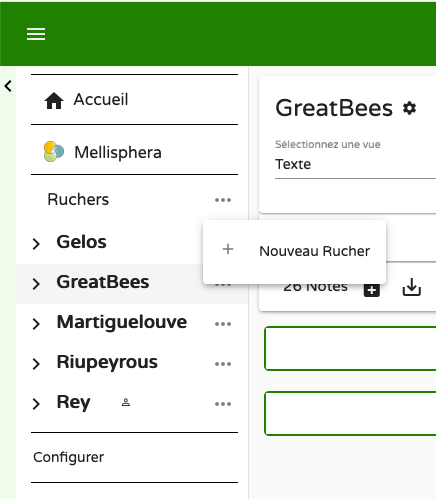
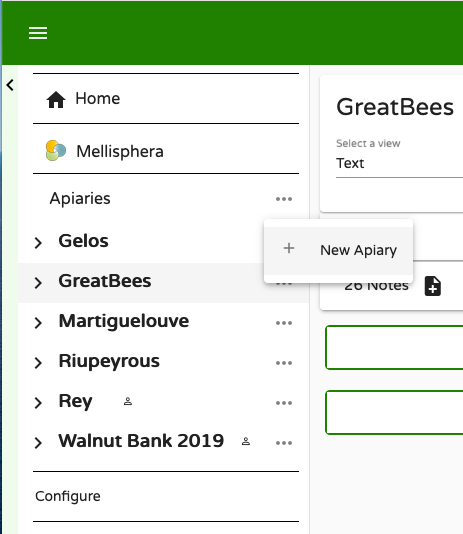
reorg dossiers et urls

diff --git a/en/docs/sensors.md b/en/docs/sensors.md
@@ -2,13 +2,13 @@
 
 ## Installing your Broodminder sensors - Location, Location, Location
 
-### 1. Sensor locations
+### Device locations
 
 The Citizen Science Package contains two Broodminder-TH (temperature and humidity) or T2 (temperature only) Devices and a Broodminder-W hive scale. Here is where you install these devices:
 
 ![](./images/03_sensor_locs.png)
 
-### 2. Broodminder-TH (BRM-42)
+### Broodminder-TH (42)
 
 All Broodminder-TH device IDs start with 42 so they should be easy to recognize. The normal placement of the sensor is on top of the frame near the middle of the hive box of interest. This position is chosen for several reasons:
 
@@ -28,15 +28,15 @@ If you move the Broodminder-TH to the top, then you may want to move the other B
 
 As a final note, the Broodminder-TH is thin enough that if you want to experiment with different positions such as between the frames you can. We would love to know how this works for you and what you learn.
 
-Whatever position you choose, you can add a tag to the data using the Broodminder app. We&#39;ll talk about doing that in a later chapter.
+Whatever position you choose, you can add a tag to the data using the Broodminder app. We'll talk about doing that in a later chapter.
 
 The CR2032 battery is replaceable by opening the wrapper. It should last more than a year and we recommend replacement each fall before the low temperatures of winter.
 
-### 3. Broodminder-T2 (BRM-41)
+### Broodminder-T2 (41)
 
 All Broodminder -T2 device IDs start with 41 so they should be easy to recognize. The Broodminder-T2 ( **Temperature** ) is a cost reduced version of the Broodminder-TH. It will sense the hive temperature which will indicate brood rearing during the season and winter survival during the winter. Place it above where you believe most of the brood activity will be. In the winter we suggest that you put it on the frames of the upper most hive box so that it catches all of the rising heat from the cluster.
 
-To turn on the Broodminder-T2, press the button for 10 seconds **. The LED will flash 10 times to indicate success**. **IF YOU DON&#39;T HOLD THE BUTTON LONG ENOUGH, YOUR T2 WILL SHUT DOWN AFTER ABOUT 10 SECONDS.** 
+To turn on the Broodminder-T2, press the button for 10 seconds **. The LED will flash 10 times to indicate success**. **IF YOU DON'T HOLD THE BUTTON LONG ENOUGH, YOUR T2 WILL SHUT DOWN AFTER ABOUT 10 SECONDS.** 
 
 If you ever want to know if the -T2 is operating, press the button again, and the LED will flash momentarily to indicate the battery is fine and the device is operating.
 
@@ -50,11 +50,11 @@ If you want to turn off the T2, you must do it with the Broodminder app.
 
 - Choose device settings (the gear in the upper right corner of the screen).
 
-- Choose Sample Rate then choose &quot;Power Off&quot;. This is only available for T2 devices.
+- Choose Sample Rate then choose "Power Off". This is only available for T2 devices.
 
 - Go back to the graph screen and sync the device. After it finishes, it will power off the T2.
 
-### 4. Broodminder-T2SM (BRM-47)
+### Broodminder-T2SM (47)
 
 We introduced the BroodMinder-T2SM in May of 2020. This sensor is just like a BroodMinder-T2 except it will also watch for temperature events such as swarms. Any time the sensor see as 4 degree F (2C) increase in temperature (when brood is present) then the sensor records the 30 minutes before and 40 minutes after with 1 minute resolution and sets a flag indicating a temperature event has occurred. See the data interpretation section for more information. 
 
@@ -78,51 +78,51 @@ If you want to turn off the T2, you must do it with the BroodMinder app.
 
 - Go back to the graph screen and sync the device. After it finishes, it will power off the T2.
 
-### 5. Broodminder-W (BRM-43)
+### Broodminder-W (43)
 
 The Broodminder-W ( **W**eight) goes under the hive. There is an extensive writeup about positioning the scale in appendix A. That is a good thing to read, but if you are in a hurry, here are the basics.
 
 The CR2032 battery is replaceable. It should last more than a year and we recommend replacement each fall before the low temperatures of winter.
 
-_NOTE: the most typical error source is inadequate support under the scale. This can result in strange behavior as the hive flexes as it expands and contracts due to sun, rain, temperature, etc. Providing a flat support will improve results. An easy fix is to place a ¾&quot; plywood sheet (or equivalent) under the scales._
+_NOTE: the most typical error source is inadequate support under the scale. This can result in strange behavior as the hive flexes as it expands and contracts due to sun, rain, temperature, etc. Providing a flat support will improve results. An easy fix is to place a ¾" plywood sheet (or equivalent) under the scales._
 
 _ADDITIONAL NOTE: If all you want to see is honey flow, good support is not required. You will just have to ignore the daily fluctuations. You will still be able to observe the overall change in weight._
 
-#### 5.1 Place the scale in the shade
+#### Place the scale in the shade
 
 The Broodminder-W has a temperature sensor inside which reads the local temperature. For the temperature to be accurate, it should be shaded from direct sun. This temperature is also used to compensate the weight sensors so avoiding the temperature spike created by direct sunshine will improve performance.
 
 Being in the shade will also extend the housing life. We use UV resistant plastic, but in the direct sun even that will become degraded. If this happens, you can order a new housing on Broodminder.com.
 
-#### 5.2 Get the Broodminder-W level
+#### Get the Broodminder-W level
 
 We have done our best to make installation simple. However, you need to pay attention to a couple of things.
 
-Make sure the hive is level. This doesn&#39;t mean &quot;crazy level&quot; but if your hive looks like the Leaning Tower of Pisa, then you won&#39;t get good results. 2x4&#39;s and shims are your friends. By using a few 2x4&#39;s and shims creatively, you can level almost anything! We also find that screwing the 2x4&#39;s together makes life better and more stable.
+Make sure the hive is level. This doesn't mean "crazy level" but if your hive looks like the Leaning Tower of Pisa, then you won't get good results. 2x4's and shims are your friends. By using a few 2x4's and shims creatively, you can level almost anything! We also find that screwing the 2x4's together makes life better and more stable.
 
 After you install the Broodminder -W, look at the end of it. Through the plastic cover, (remember… install it _with_ the plastic cover), you will see the upper wooden piece and the lower aluminum piece. Make sure that they do not touch. This will ensure that all the weight is sitting on the two little buttons on top of the aluminum base and not somewhere else.
 
-#### 5.3 Typical installation, not as accurate
+#### Typical installation, not as accurate
 
 Using the typical installation, you will see small changes to the hive however, the absolute accuracy will not be as good. For improved accuracy, see the recommendations of the next section.
 
-The Broodminder-W is designed to measure ½ of the hive weight. To do this, we want you to support one side of the hive (front or back, left or right) with a 2x4 or similar [However, we recommend that you use a piece of 2&quot; angle for the support. By orienting it so that the point of the angle iron is up, it gives a very precise pivot point. You should be able get this at your local hardware store. Aluminum is extra nice because it won&#39;t rust. A great place to get just what you need for less than $5 each is [Speedy Metals](https://www.speedymetals.com/pc-2186-8344-2-x-2-angle-6061-t6-aluminum-extruded.aspx)(1/8&quot; {A} x 2&quot; {B} x 2&quot; {C} Angle 6061-T6 Aluminum, Extruded).]
+The Broodminder-W is designed to measure ½ of the hive weight. To do this, we want you to support one side of the hive (front or back, left or right) with a 2x4 or similar [However, we recommend that you use a piece of 2" angle for the support. By orienting it so that the point of the angle iron is up, it gives a very precise pivot point. You should be able get this at your local hardware store. Aluminum is extra nice because it won't rust. A great place to get just what you need for less than $5 each is [Speedy Metals](https://www.speedymetals.com/pc-2186-8344-2-x-2-angle-6061-t6-aluminum-extruded.aspx)(1/8" {A} x 2" {B} x 2" {C} Angle 6061-T6 Aluminum, Extruded).]
 
 The Broodminder-W is placed under the opposite side.
 
 There is a nice explanation of the math and physics involved in Appendix A, however it boils down to this. **Do your best to place the support and the scale directly under the wall of the hive body.** That will give good results.
 
-#### 5.4 Better installation, more accurate
+#### Better installation, more accurate 
 
 A better way to install will require a few modifications to your bottom board. You will make a couple of small cuts that will be used to accommodate precise and repeatable placement of the scale and support.
 
-First off, we recommend that you use a piece of 2&quot; angle for the support. By orienting it so that the point of the angle iron is up, it gives a very precise pivot point. You should be able get this at your local hardware store. Aluminum is extra nice because it won&#39;t rust. A great place to get just what you need for less than $5 each is [Speedy Metals](https://www.speedymetals.com/pc-2186-8344-2-x-2-angle-6061-t6-aluminum-extruded.aspx)(1/8&quot; {A} x 2&quot; {B} x 2&quot; {C} Angle 6061-T6 Aluminum, Extruded).
+First off, we recommend that you use a piece of 2" angle for the support. By orienting it so that the point of the angle iron is up, it gives a very precise pivot point. You should be able get this at your local hardware store. Aluminum is extra nice because it won't rust. A great place to get just what you need for less than $5 each is [Speedy Metals](https://www.speedymetals.com/pc-2186-8344-2-x-2-angle-6061-t6-aluminum-extruded.aspx)(1/8" {A} x 2" {B} x 2" {C} Angle 6061-T6 Aluminum, Extruded).
 
 Now we want to make the cuts in the bottom board. For this setup we recommend using front and back supports and not side to side. That given, you must choose whether to place the Broodminder-W under the front of the hive, or the back of the hive.
 
 In general, it is better to place the Broodminder-W out of the sun. This is because the sun will heat the scale and give you a false reading of the outside temperature. Placing it in the shady side of the scale avoids this problem. It will also make the housing last longer.
 
-Next you will cut the bottom board. For the angle iron side, you will cut a groove the width of your saw blade that the point of the angle will fit in. For the scale side, you will cut a notch 3/16&quot; deep that ends 1&quot; inside the center of the hive body wall. See the images below.
+Next you will cut the bottom board. For the angle iron side, you will cut a groove the width of your saw blade that the point of the angle will fit in. For the scale side, you will cut a notch 3/16" deep that ends 1" inside the center of the hive body wall. See the images below.
 
 
 ![](./images/04_accurate_w_01.png)
@@ -134,7 +134,7 @@ Next you will cut the bottom board. For the angle iron side, you will cut a groo
 
 There is not much routine maintenance that is required. Please note that if your batteries are lasting less than 6 months, something is wrong and you should contact [Support@Broodminder.com](mailto:Support@Broodminder.com) for replacement or refurbishment.
 
-### 1. Spring
+### Spring
 
 We have a video talking about spring maintenance on the support page at [mybroodminder.com/resources](https://mybroodminder.com/app/resources).
 
@@ -148,7 +148,7 @@ We also have replacement wrappers for all the devices on our website at Broodmin
 
 We also offer Refresh service where we replace the housings and batteries and test the devices. And we offer Refurbished units if the devices are unfixable. Contact Mike at support@broodminder.com and he will help you with this.
 
-### 2. Fall
+### Fall
 
 Prior to winter, replace all of the batteries in your BroodMinders. (A good place to buy them is Amazon.com or Digikey.com. You can get them for less than $0.50 each). All of the batteries are of type CR2032.
 

diff --git a/en/docs/quick_start_guide.md b/en/docs/quick_start_guide.md
@@ -2,41 +2,41 @@
 
 ## How to start the system in 3 steps
 
-**1 - Creating your MyBroodminder.com account**
+### 1 - Create your MyBroodminder.com account
 
 A single account to create everything: apiary, hives & sensors. 
 
 ![](./images/guide/1.png)
 
-**2 - Activating your sensors** 
+### 2 - Activate devices
 
 Watch our YouTube video: https://www.youtube.com/watch?v=fanEzs-6fb4 
 
-**3 - Installing the Broodminder Apiary app** 
+### 3 - Install the Broodminder Apiary App
 
-Collect your sensor data. 
+Collect your device data. 
 
 ![](./images/guide/Picto3logo.png)
 
 ![](./images/guide/2fr.png)
 
-**4 - Visualizing & exploring** 
+### 4 - View & explore
 
 Analyze raw (MyBroodminder) or refined (Mellisphera) data.
 
 ![](./images/guide/3.png)
 
-**Need some help?** info@mellisphera.com 
+**Need some help?** [info@mellisphera.com](info@mellisphera.com)
 
-## Tips to install efficiently your sensors
+## Tips to install efficiently your devices
 
-**1 - Numbering your hives** 
+### Name your hives
 
 ![](./images/guide/Picto4.png)
 
 Identify your hives: numbered, engraved or painted plate... Whatever you want. The main thing is to be able to spot them from afar, without any problem.  
 
-**2 - Preparing the system at home** 
+### Set-up the system at home
 
 - Settle down on a large table with your computer, your sensors and some post-it notes. 
 
@@ -60,15 +60,15 @@ Identify your hives: numbered, engraved or painted plate... Whatever you want. T
 
 ![](./images/guide/8.png)
 
-**IF YOU HAVE A HUB** 
+## If you have a Hub
 
-**3 - Downloading the Broodminder Cell app** 
+### Download the Cell App
 
 ![](./images/guide/Picto5.png)
 
 With this app, you can communicate with the hub. 
 
-**4 - Taking your hub out of the "deep sleep" mode** 
+### Wake up the Hub
 
 - Don't open the hub. It's already ready to use.  
 
@@ -84,7 +84,7 @@ With this app, you can communicate with the hub.
 
 - You're done, the system is working! Now you can get some well-deserved rest ;) 
 
-## The apiary set-up 
+## Install at your apiary 
 
 **On the apiary, putting the autopilot on** 
 

diff --git a/en/docs/mybroodminder.md b/en/docs/mybroodminder.md
@@ -30,7 +30,7 @@ The creation and edition of hives is done from the _Configuration_ menu, as you 
 
 ![](./images/13_3_cloud_storage.png)
 
-### Creating an apiary
+### New apiary
 
 Each item in the left menu has a contextual menu indicated by three dots "..."
 
@@ -39,23 +39,23 @@ On _Apiaries_, you access the function of apiary creation.
 ![](./images/13_5_nw_apiary.png)
 
 
-### Creating a hive 
+### New hive 
 
 Also on _Apiaries_, you access the function of hive creation.
 
 ![](./images/13_6_nw_hive.png)
 
-### Assigning a sensor
+### New device
 
 In the same logic, the sensors are assigned to each hive. 
 
 ![](./images/13_7_nw_device.png)
 
-### Moving a sensor 
+### Move device 
 
 In the hive menu (above), you can also move the sensor (to another hive for example). 
 
-### Transhumming a hive 
+### Move hive 
 
 It is possible to move a hive from one apiary to another. This changes its location and also adapts the weather to the new location. This function is accessible from the contextual menu and also from the _Configure_ menu, then _Apiaries_, then in the table the column _History Apiaries_ which enables you to define the location sequence.
 
@@ -69,7 +69,7 @@ Please note that this action is IRREVERSIBLE.
 
 ![](./images/13_9_desactiver.png)
 
-## Visualizing data
+## Viewing data
 
 By clicking on the hive name, you can visualize a graph that combines all the sensors of the selected hive into a single report :
 

diff --git a/en/docs/support.md b/en/docs/support.md
@@ -36,7 +36,7 @@ img[src*="#picto"] {
 
 Can't find the answer to your question in this documentation?
 
-The [keyword search](#srch) didn't give the result you were expecting?
+The keyword search didn't give the result you were expecting?
 
 Contact Mellisphera support by email at [support@mellisphera.com](mailto:support@mellisphera.com) 
 

diff --git a/fr/docs/beecounted.md b/fr/docs/beecounted.md
@@ -1,4 +1,4 @@
-# Science Citoyenne
+# Science Collaborative
 
 Broodminder et Mellisphera collaborent avec [Beecounted.org](https://beecounted.org). Nos applications ouvrent la possibilité de partager ses données avec cette initiative internationale. 
 
